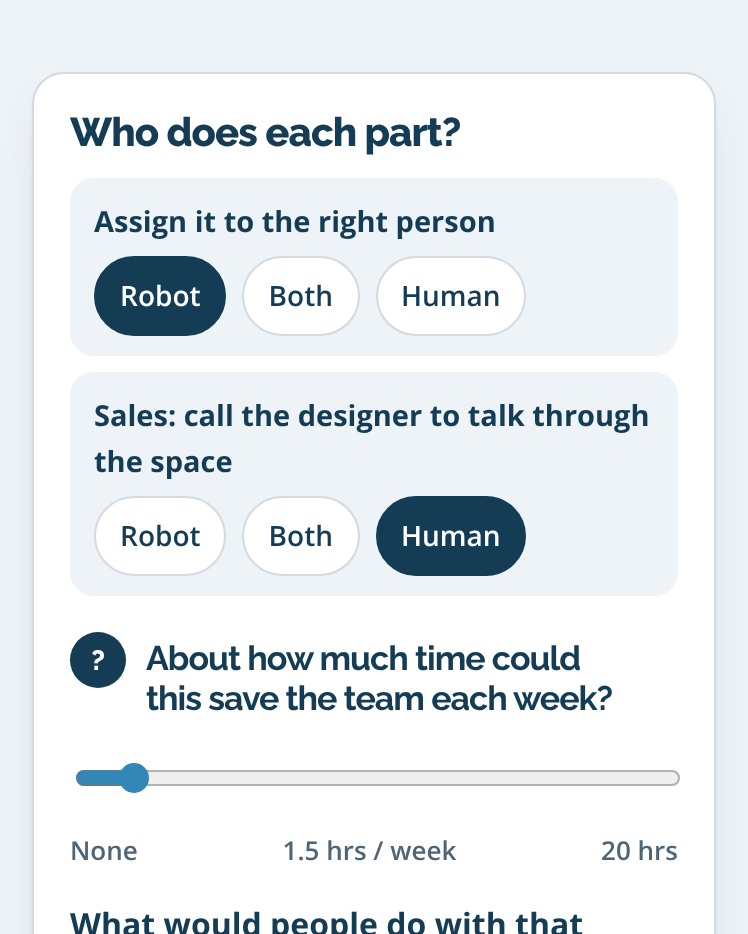
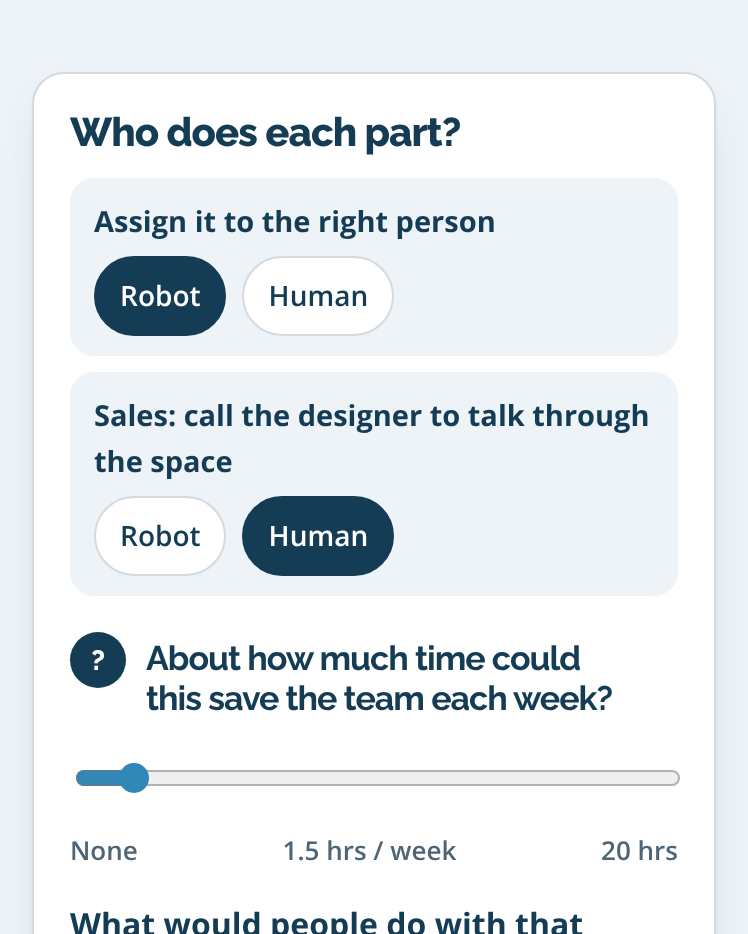
Step 4 is Robot or Human, not Both
Each part of the fix is now either/or. "Both" is gone from the chips
and from the explanation above them.

A phone that had already chosen "Both" for a part would otherwise have
shown no selection at all and carried "both" into its proposal, so a
saved "both" is read as Robot on render and rewritten.

Regenerated the slide screenshots.

Claude-Session: https://claude.ai/code/session_01Hr7wMfKYoBeYjmoic14ePz

Changed region(s): [[0.3075, 0.5278, 0.7072, 0.621], [0.369, 0.2794, 0.6765, 0.3726]]

diff --git a/curran/breakout.html b/curran/breakout.html
@@ -191,12 +191,12 @@
     <div class="card">
       <div class="eyebrow">Step 4 · Human or robot</div>
       <h2>Who does each part?</h2>
-      <div class="howto"><div class="k">How to do this step</div><p>Go through each part of your fix and decide who should do it: a <b>person</b>, a <b>system</b>, or both. The rule of thumb: if it's typing, copying, chasing or reminding, a system should do it. If it needs judgement or a relationship, a person should.</p>
+      <div class="howto"><div class="k">How to do this step</div><p>Go through each part of your fix and decide who should do it: a <b>person</b> or a <b>system</b>. It is one or the other — pick whichever should own it. The rule of thumb: if it's typing, copying, chasing or reminding, a system should do it. If it needs judgement or a relationship, a person should.</p>
       <ul>
         <li><span class="eg">System: logging the request, assigning it, sending the &ldquo;we got it&rdquo; reply, reminding the rep on day three.</span></li>
         <li><span class="eg">Person: calling the designer to talk through the project and what will actually work in their space.</span></li>
       </ul></div>
-      <p class="small" style="margin-top:4px">For each part of your fix, tap who should do it.<br><b>Robot</b>: the system does it on its own. <b>Human</b>: a person needs to do it. <b>Both</b>: the system does the legwork, a person makes the call.</p>
+      <p class="small" style="margin-top:4px">For each part of your fix, tap who should do it.<br><b>Robot</b>: the system does it on its own. <b>Human</b>: a person needs to do it.</p>
       <div class="sorter" id="sorter"></div>
       <div class="step" style="margin-top:18px"><span class="n">?</span><h3>About how much time could this save the team each week?</h3></div>
       <label class="sr" for="mins">Time back per week</label>
@@ -416,7 +416,7 @@
   function renderSorter() {
     var p = parts(), el = $('sorter');
     if (!p.length) { el.innerHTML = '<p class="small">Your fix doesn’t have any automatic steps yet, so there’s nothing to sort.</p>'; return; }
-    el.innerHTML = p.map(function (x) { var cur = S.sort[x.id] || x.d; S.sort[x.id] = cur; return '<div class="srow"><div class="t">' + BL.esc(x.t) + '</div><div class="chips" data-part="' + x.id + '">' + ['robot', 'both', 'human'].map(function (c) { return '<button class="chip" type="button" data-c="' + c + '" aria-pressed="' + (cur === c) + '">' + c.charAt(0).toUpperCase() + c.slice(1) + '</button>'; }).join('') + '</div></div>'; }).join('');
+    el.innerHTML = p.map(function (x) { var cur = S.sort[x.id] || x.d; if (cur === 'both') cur = 'robot'; S.sort[x.id] = cur; return '<div class="srow"><div class="t">' + BL.esc(x.t) + '</div><div class="chips" data-part="' + x.id + '">' + ['robot', 'human'].map(function (c) { return '<button class="chip" type="button" data-c="' + c + '" aria-pressed="' + (cur === c) + '">' + c.charAt(0).toUpperCase() + c.slice(1) + '</button>'; }).join('') + '</div></div>'; }).join('');
     save();
   }
   $('sorter').addEventListener('click', function (e) {
